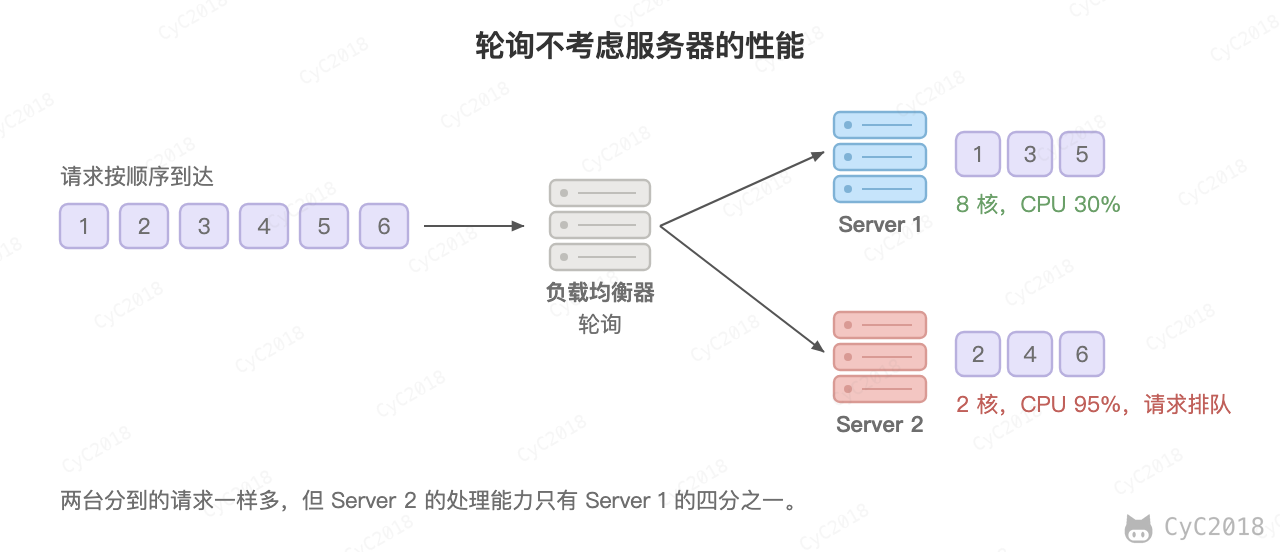
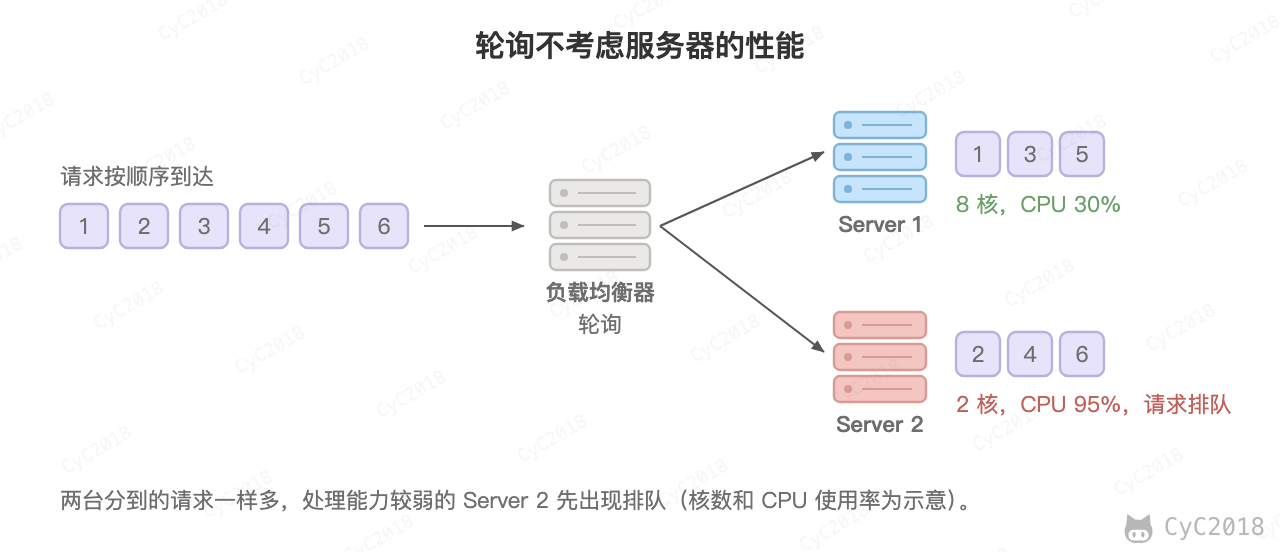
Update 集群.md
补充平滑加权轮询实现与 Nginx upstream 配置示例，调整 LVS DR 模式说明；新增 NAT/DR 对比配图并重新绘制部分算法配图。

Changed region(s): [[0.2188, 0.8623, 0.75, 0.9239]]

diff --git a/notes/集群.md b/notes/集群.md
@@ -8,7 +8,7 @@
             * [3. 最少连接（Least Connections）](#3-最少连接least-connections)
             * [4. 加权最少连接（Weighted Least Connection）](#4-加权最少连接weighted-least-connection)
             * [5. 随机算法（Random）](#5-随机算法random)
-            * [6. 源地址哈希法 (IP Hash)](#6-源地址哈希法-ip-hash)
+            * [6. 源地址哈希法（IP Hash）](#6-源地址哈希法ip-hash)
         * [转发实现](#转发实现)
             * [1. HTTP 重定向](#1-http-重定向)
             * [2. DNS 域名解析](#2-dns-域名解析)
@@ -20,6 +20,7 @@
         * [Session Replication](#session-replication)
         * [Session Server](#session-server)
         * [客户端保存](#客户端保存)
+    * [参考资料](#参考资料)
 <!-- GFM-TOC -->
 
 
@@ -27,7 +28,7 @@
 
 集群中的应用服务器（节点）通常被设计成无状态，用户可以请求任何一个节点。
 
-负载均衡器会根据集群中每个节点的负载情况，将用户请求转发到合适的节点上。
+负载均衡器按一定的算法把用户请求转发到集群中合适的节点上。
 
 负载均衡器可以用来实现高可用以及伸缩性：
 
@@ -41,6 +42,8 @@
 
 ### 负载均衡算法
 
+轮询、加权轮询、随机和哈希只按事先配置的规则分配，属于静态算法；最少连接和加权最少连接按实时的连接数选择，属于动态算法。
+
 #### 1. 轮询（Round Robin）
 
 轮询算法把每个请求轮流发送到每个服务器上。
@@ -50,7 +53,7 @@
 <div align="center"> <img src="pics/lb-round-robin.png" width="640px"/> </div><br>
 
 
-该算法比较适合每个服务器的性能差不多的场景，如果有性能存在差异的情况下，那么性能较差的服务器可能无法承担过大的负载（下图的 Server 2）。
+该算法比较适合每个服务器的性能差不多的场景。如果服务器的性能存在差异，性能较差的服务器可能无法承担过大的负载（下图的 Server 2）。
 
 <div align="center"> <img src="pics/lb-round-robin-weak.png" width="640px"/> </div><br>
 
@@ -62,13 +65,45 @@
 
 <div align="center"> <img src="pics/lb-weighted-round-robin.png" width="640px"/> </div><br>
 
-实际实现（例如 Nginx 的平滑加权轮询）会把请求交错发送，避免连续的请求集中到同一台服务器上，上图最后一行是按 Nginx 源码中的算法计算出的顺序。
+实际实现（例如 Nginx 的平滑加权轮询）会把请求交错发送，避免连续的请求集中到同一台服务器上。它为每台服务器维护一个当前权重：每个请求到来时，各服务器的当前权重先加上自己的权值，选出最大的一台（相等时选前一台），再把它的当前权重减去权值之和 6。上图最后一行按下表算出：
+
+```text
+请求   加上权值后 (S1, S2)   选中   减去 6 后 (S1, S2)
+1      (5, 1)                S1     (-1, 1)
+2      (4, 2)                S1     (-2, 2)
+3      (3, 3)                S1     (-3, 3)
+4      (2, 4)                S2     (2, -2)
+5      (7, -1)               S1     (1, -1)
+6      (6, 0)                S1     (0, 0)
+```
+
+6 个请求后当前权重回到 (0, 0)，之后按同样的顺序循环。用 Java 实现如下：
+
+```java
+class Server {
+    final String host;
+    final int weight;
+    int current;   // 当前权重，初始为 0
+    Server(String host, int weight) { this.host = host; this.weight = weight; }
+}
+
+// total 是所有服务器的权值之和
+synchronized String getHost(List<Server> servers, int total) {
+    Server best = null;
+    for (Server s : servers) {
+        s.current += s.weight;
+        if (best == null || s.current > best.current) best = s;
+    }
+    best.current -= total;
+    return best.host;
+}
+```
 
 #### 3. 最少连接（Least Connections）
 
 由于每个请求的连接时间不一样，使用轮询或者加权轮询算法的话，可能会让一台服务器当前连接数过大，而另一台服务器的连接过小，造成负载不均衡。
 
-例如下图中，(1, 3, 5) 请求会被发送到服务器 1，但是 (1, 3) 很快就断开连接，此时只有 (5) 请求连接服务器 1；(2, 4, 6) 请求被发送到服务器 2，只有 (2) 的连接断开，此时 (6, 4) 请求连接服务器 2。该系统继续运行时，服务器 2 会承担过大的负载。
+例如下图中，轮询把请求 1、3、5 发给服务器 1，把请求 2、4、6 发给服务器 2。请求 1、3 很快就断开连接，请求 6 到达时服务器 1 只有 1 个连接，服务器 2 还有 2 个，轮询仍然把它发给服务器 2。该系统继续运行时，服务器 2 会承担过大的负载。
 
 <div align="center"> <img src="pics/lb-least-conn-problem.png" width="640px"/> </div><br>
 
@@ -80,7 +115,7 @@
 
 #### 4. 加权最少连接（Weighted Least Connection）
 
-在最少连接的基础上，根据服务器的性能为每台服务器分配权重，将请求发送给“当前连接数 / 权重”最小的服务器。
+在最少连接的基础上，根据服务器的性能为每台服务器分配权重，将请求发送给“当前连接数 / 权重”最小的服务器。例如服务器 1 的权重为 3、有 6 个连接，服务器 2 的权重为 1、有 3 个连接，6 / 3 = 2 小于 3 / 1 = 3，新请求发给连接更多的服务器 1。
 
 #### 5. 随机算法（Random）
 
@@ -90,7 +125,7 @@
 
 <div align="center"> <img src="pics/lb-random.png" width="640px"/> </div><br>
 
-#### 6. 源地址哈希法 (IP Hash)
+#### 6. 源地址哈希法（IP Hash）
 
 源地址哈希通过对客户端 IP 计算哈希值之后，再对服务器数量取模得到目标服务器的序号。
 
@@ -98,7 +133,7 @@
 
 <div align="center"> <img src="pics/lb-ip-hash.png" width="640px"/> </div><br>
 
-缺点是同一出口 IP 后面的大量用户会落到同一台服务器上，造成负载不均；服务器数量变化时大部分客户端的取模结果都会改变，可以改用一致性哈希。需要注意的是，Nginx 的 ip_hash 只用 IPv4 地址的前 3 个字节计算哈希，同一个 /24 网段的客户端都会落到同一台服务器上。
+缺点是同一出口 IP 后面的大量用户会落到同一台服务器上，造成负载不均；服务器数量变化时大部分客户端的取模结果都会改变，可以改用[一致性哈希](缓存.md#六一致性哈希)。需要注意的是，Nginx 的 ip_hash 只用 IPv4 地址的前 3 个字节计算哈希，同一个 /24 网段的客户端都会落到同一台服务器上。
 
 ### 转发实现
 
@@ -139,6 +174,25 @@ HTTP 重定向负载均衡服务器使用某种负载均衡算法计算得到服
 
 反向代理工作在应用层，属于七层负载均衡，可以根据 URL、Cookie 等内容进行转发，常用的有 Nginx、HAProxy。
 
+例如 Nginx 用 upstream 定义一组服务器，默认按加权轮询分配，开头写 least_conn、ip_hash 或 hash $request_uri consistent 可以改为加权最少连接、源地址哈希或按 URL 的一致性哈希：
+
+```nginx
+upstream order_service {
+    least_conn;                                     # 不写时为加权轮询
+    server 10.0.0.11:8080 weight=5;
+    server 10.0.0.12:8080 weight=1 max_fails=3 fail_timeout=30s;
+}
+
+server {
+    listen 80;
+    location /api/ {
+        proxy_pass http://order_service;
+    }
+}
+```
+
+开源版 Nginx 不主动探测后端，只在转发失败时计数：fail_timeout 内失败 max_fails 次（默认 1 次、10 秒），之后的 fail_timeout 内不再向它转发。微服务之间的调用一般不经过 Nginx，由调用方从注册中心取得实例列表后自己选择，见[微服务的负载均衡策略](微服务.md#负载均衡策略)。
+
 优点：
 
 - 与其它功能集成在一起，部署简单。
@@ -155,7 +209,7 @@ HTTP 重定向负载均衡服务器使用某种负载均衡算法计算得到服
 
 优点：
 
-- 在内核进程中进行处理，性能比较高。
+- 在内核中进行处理，性能比较高。
 
 缺点：
 
@@ -165,18 +219,13 @@ HTTP 重定向负载均衡服务器使用某种负载均衡算法计算得到服
 
 在链路层根据负载均衡算法计算源服务器的 MAC 地址，并修改请求数据包的目的 MAC 地址，并进行转发。
 
-通过配置源服务器的虚拟 IP 地址和负载均衡服务器的 IP 地址一致，从而不需要修改 IP 地址就可以进行转发。也正因为 IP 地址一样，所以源服务器的响应不需要转发回负载均衡服务器，可以直接转发给客户端，避免了负载均衡服务器成为瓶颈。
+负载均衡服务器和源服务器配置同一个虚拟 IP（VIP），源服务器把它配置在回环等不响应 ARP 的接口上，从而不需要修改 IP 地址就可以进行转发。也正因为 IP 地址一样，所以源服务器的响应不需要转发回负载均衡服务器，可以直接转发给客户端，避免了负载均衡服务器成为瓶颈。
 
-这是一种三角传输模式，被称为直接路由，对应 LVS 的 DR 模式，要求源服务器和负载均衡服务器位于同一个局域网内。对于提供下载和视频服务的网站来说，直接路由避免了大量的网络传输数据经过负载均衡服务器。
+这是一种三角传输模式，被称为直接路由，对应 LVS 的 DR 模式，要求源服务器和负载均衡服务器位于同一个局域网内，因为只改了 MAC 地址的帧无法经过路由器转发。对于提供下载和视频服务的网站来说，直接路由避免了大量的网络传输数据经过负载均衡服务器。
 
-网络层和链路层的方式不解析应用层协议，属于四层负载均衡。链路层负载均衡的响应不经过负载均衡服务器，性能很好，在 Linux 平台可以使用的负载均衡服务器为 LVS（Linux Virtual Server），通常用 LVS 做四层负载均衡，再用 Nginx 做七层负载均衡。
+<div align="center"> <img src="pics/lb-nat-dr.png" width="760px"/> </div><br>
 
-参考：
-
-- [Comparing Load Balancing Algorithms](http://www.jscape.com/blog/load-balancing-algorithms)
-- [Nginx: ngx_http_upstream_module](https://nginx.org/en/docs/http/ngx_http_upstream_module.html)
-- [Nginx 源码：ngx_http_upstream_round_robin.c](https://github.com/nginx/nginx/blob/master/src/http/ngx_http_upstream_round_robin.c)
-- [Redirection and Load Balancing](https://web.archive.org/web/20250420002753/http://slideplayer.com/slide/6599069/)
+网络层和链路层的方式不解析应用层协议，属于四层负载均衡：它只看 IP 和端口，同一个 TCP 连接的包都转发给同一台服务器，开销小；七层负载均衡要先和客户端建立 TCP 连接、解析出 HTTP 请求才能选择服务器，开销更大。链路层负载均衡的响应不经过负载均衡服务器，性能很好，在 Linux 平台可以使用的负载均衡服务器为 LVS（Linux Virtual Server），通常用 LVS 做四层负载均衡，再用 Nginx 做七层负载均衡。
 
 ## 二、集群下的 Session 管理
 
@@ -223,13 +272,18 @@ HTTP 重定向负载均衡服务器使用某种负载均衡算法计算得到服
 
 ### 客户端保存
 
-把用户信息签名后放在 Cookie 或者 JWT 中，由客户端保存，服务端只需要验证签名。
+把用户信息签名后放在 Cookie 或者 JWT 中，由客户端保存，服务端只需要验证签名和有效期。
 
 缺点：
 
-- 无法主动让某个会话失效。
+- 在过期之前无法主动让某个会话失效，需要服务端另外维护黑名单等状态，见 [JWT](HTTP.md#11-jwt)。
 
-参考：
+## 参考资料
 
+- [Comparing Load Balancing Algorithms](http://www.jscape.com/blog/load-balancing-algorithms)
+- [Nginx: ngx_http_upstream_module](https://nginx.org/en/docs/http/ngx_http_upstream_module.html)
+- [Nginx 源码：ngx_http_upstream_round_robin.c](https://github.com/nginx/nginx/blob/master/src/http/ngx_http_upstream_round_robin.c)
+- [Redirection and Load Balancing](https://web.archive.org/web/20250420002753/http://slideplayer.com/slide/6599069/)
+- [LVS: Virtual Server via Direct Routing](https://www.linuxvirtualserver.org/VS-DRouting.html)
 - [Session Management using Spring Session with JDBC DataStore](https://web.archive.org/web/20230602191402/https://www.sivalabs.in/2018/02/session-management-using-spring-session-jdbc-datastore/)
 
